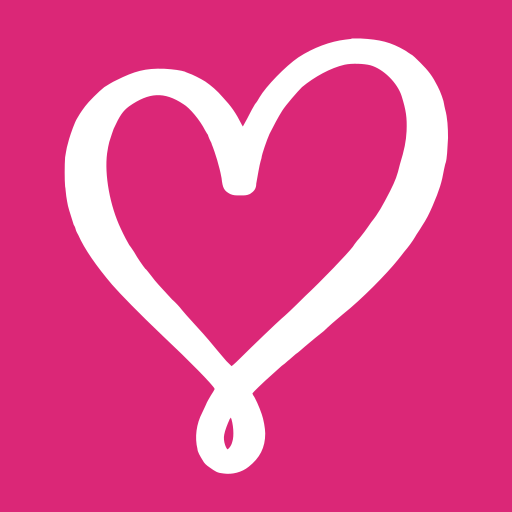
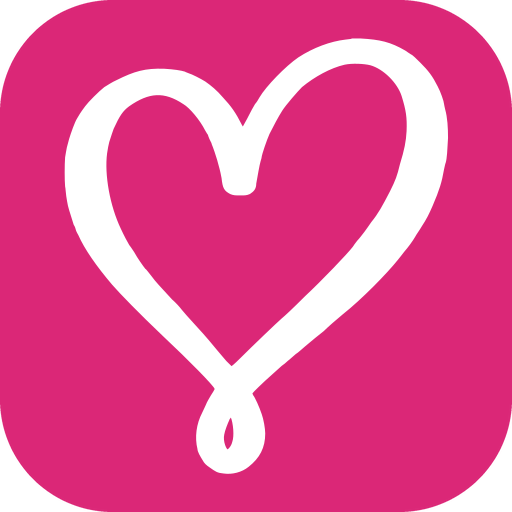
Ícono de la app y del navegador con esquinas redondeadas (el de Android sigue cuadrado porque el celu le da la forma)
Claude-Session: https://claude.ai/code/session_01RvcAd878nyjBYEQfX8WDLs

diff --git a/juntos/index.html b/juntos/index.html
@@ -10,7 +10,7 @@
 <meta property="og:title" content="JuntOS · La app para organizar la vida en pareja">
 <meta property="og:description" content="Casa, ahorros, viajes, auto, gastos, calendario, mascotas e hijos en una sola app para los dos. Probala 30 días gratis.">
 <meta property="og:image" content="https://juntosapp.com.ar/app/img/pareja-hero.webp">
-<link rel="icon" href="app/img/icono.png?v=10">
+<link rel="icon" href="app/img/icono.png?v=11">
 <link rel="apple-touch-icon" href="app/img/apple-touch.png?v=10">
 <link rel="manifest" href="manifest.webmanifest">
 <meta name="apple-mobile-web-app-capable" content="yes">

diff --git a/inventario.html b/inventario.html
@@ -7,7 +7,7 @@
 <meta name="apple-mobile-web-app-status-bar-style" content="default">
 <meta name="apple-mobile-web-app-title" content="Inventario">
 <link rel="apple-touch-icon" href="img/apple-touch.png?v=10">
-<link rel="icon" type="image/png" href="img/icono.png?v=10">
+<link rel="icon" type="image/png" href="img/icono.png?v=11">
 <title>Inventario - Escáner Automático</title>
 <script src="tema.js"></script>
 <script src="sonidos.js"></script>

diff --git a/coaching.html b/coaching.html
@@ -6,7 +6,7 @@
 <meta name="apple-mobile-web-app-capable" content="yes">
 <meta name="apple-mobile-web-app-title" content="Nuestro vínculo">
 <link rel="apple-touch-icon" href="img/apple-touch.png?v=10">
-<link rel="icon" type="image/png" href="img/icono.png?v=10">
+<link rel="icon" type="image/png" href="img/icono.png?v=11">
 <title>Nuestro vínculo</title>
 <script src="tema.js"></script>
 <script src="sonidos.js"></script>

diff --git a/compartidos.html b/compartidos.html
@@ -6,7 +6,7 @@
 <meta name="apple-mobile-web-app-capable" content="yes">
 <meta name="apple-mobile-web-app-title" content="Compartidos">
 <link rel="apple-touch-icon" href="img/apple-touch.png?v=10">
-<link rel="icon" type="image/png" href="img/icono.png?v=10">
+<link rel="icon" type="image/png" href="img/icono.png?v=11">
 <title>Gastos compartidos</title>
 <script src="tema.js"></script>
 <script src="sonidos.js"></script>

diff --git a/gastos.html b/gastos.html
@@ -6,7 +6,7 @@
 <meta name="apple-mobile-web-app-capable" content="yes">
 <meta name="apple-mobile-web-app-title" content="Gastos">
 <link rel="apple-touch-icon" href="img/apple-touch.png?v=10">
-<link rel="icon" type="image/png" href="img/icono.png?v=10">
+<link rel="icon" type="image/png" href="img/icono.png?v=11">
 <title>Gastos personales</title>
 <script src="tema.js"></script>
 <script src="sonidos.js"></script>

diff --git a/vacaciones.html b/vacaciones.html
@@ -6,7 +6,7 @@
 <meta name="apple-mobile-web-app-capable" content="yes">
 <meta name="apple-mobile-web-app-title" content="Vacaciones">
 <link rel="apple-touch-icon" href="img/apple-touch.png?v=10">
-<link rel="icon" type="image/png" href="img/icono.png?v=10">
+<link rel="icon" type="image/png" href="img/icono.png?v=11">
 <title>Vacaciones</title>
 <script>window.CALC_OK=true;</script>
 <script src="tema.js"></script>

diff --git a/calendario.html b/calendario.html
@@ -6,7 +6,7 @@
 <meta name="apple-mobile-web-app-capable" content="yes">
 <meta name="apple-mobile-web-app-title" content="Calendario">
 <link rel="apple-touch-icon" href="img/apple-touch.png?v=10">
-<link rel="icon" type="image/png" href="img/icono.png?v=10">
+<link rel="icon" type="image/png" href="img/icono.png?v=11">
 <title>Calendario</title>
 <script src="tema.js"></script>
 <script src="sonidos.js"></script>

diff --git a/copito.html b/copito.html
@@ -6,7 +6,7 @@
 <meta name="apple-mobile-web-app-capable" content="yes">
 <meta name="apple-mobile-web-app-title" content="Copito">
 <link rel="apple-touch-icon" href="img/apple-touch.png?v=10">
-<link rel="icon" type="image/png" href="img/icono.png?v=10">
+<link rel="icon" type="image/png" href="img/icono.png?v=11">
 <title>Vehículos</title>
 <script>window.CALC_OK=true;</script>
 <script src="tema.js"></script>

diff --git a/mascotas.html b/mascotas.html
@@ -6,7 +6,7 @@
 <meta name="apple-mobile-web-app-capable" content="yes">
 <meta name="apple-mobile-web-app-title" content="Mascotas">
 <link rel="apple-touch-icon" href="img/apple-touch.png?v=10">
-<link rel="icon" type="image/png" href="img/icono.png?v=10">
+<link rel="icon" type="image/png" href="img/icono.png?v=11">
 <title>Mascotas</title>
 <script src="tema.js"></script>
 <script src="sonidos.js"></script>

diff --git a/personajes.html b/personajes.html
@@ -6,7 +6,7 @@
 <meta name="apple-mobile-web-app-capable" content="yes">
 <meta name="apple-mobile-web-app-title" content="Juntos">
 <link rel="apple-touch-icon" href="img/apple-touch.png?v=10">
-<link rel="icon" type="image/png" href="img/icono.png?v=10">
+<link rel="icon" type="image/png" href="img/icono.png?v=11">
 <title>Mi avatar</title>
 <script src="tema.js"></script>
 <script src="sonidos.js"></script>

diff --git a/ahorros.html b/ahorros.html
@@ -6,7 +6,7 @@
 <meta name="apple-mobile-web-app-capable" content="yes">
 <meta name="apple-mobile-web-app-title" content="Ahorros">
 <link rel="apple-touch-icon" href="img/apple-touch.png?v=10">
-<link rel="icon" type="image/png" href="img/icono.png?v=10">
+<link rel="icon" type="image/png" href="img/icono.png?v=11">
 <title>Ahorros</title>
 <script src="tema.js"></script>
 <script src="sonidos.js"></script>

diff --git a/sonidos.html b/sonidos.html
@@ -6,7 +6,7 @@
 <meta name="apple-mobile-web-app-capable" content="yes">
 <meta name="apple-mobile-web-app-title" content="JuntOS">
 <link rel="apple-touch-icon" href="img/apple-touch.png?v=10">
-<link rel="icon" type="image/png" href="img/icono.png?v=10">
+<link rel="icon" type="image/png" href="img/icono.png?v=11">
 <title>Sonidos</title>
 <script src="tema.js"></script>
 <script src="sonidos.js"></script>
